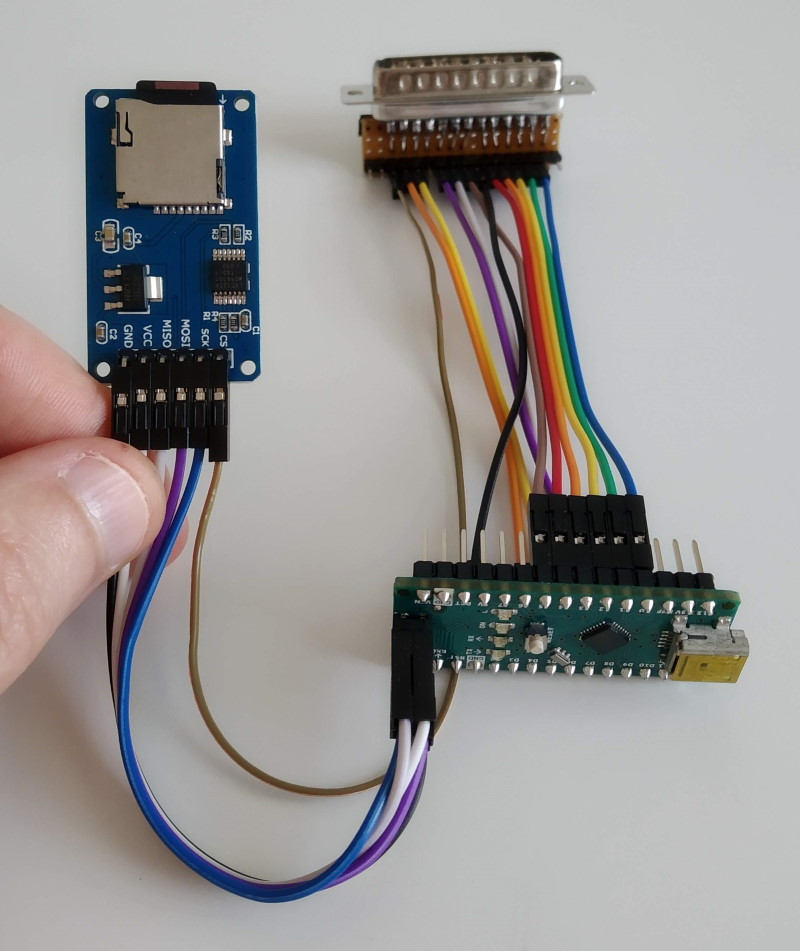
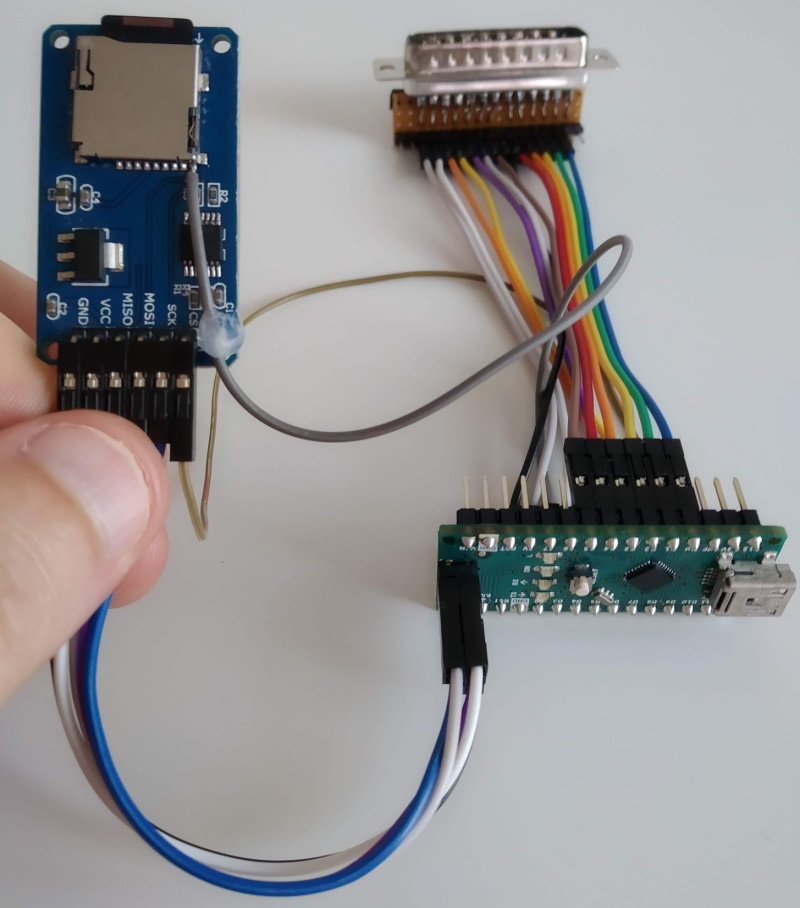
Update README and assembly instructions

diff --git a/hardware/assembly-instructions.md b/hardware/assembly-instructions.md
@@ -1,24 +1,40 @@
 # Assembly instructions
 
-The assembly of the adapter is very simple.
+The assembly of the adapter is quite simple.
 You need a parallel port connector and an Arduino Nano.
 Connect the parallel port to the Nano as follows:
 
-| Par. pin # | Par. pin name | Nano pin # | Nano pin name |
-|-----------:|--------------:|-----------:|--------------:|
-|  2 |   D0 | 26 | A0 |
-|  3 |   D1 | 25 | A1 |
-|  4 |   D2 | 24 | A2 |
-|  5 |   D3 | 23 | A3 |
-|  6 |   D4 | 22 | A4 |
-|  7 |   D5 | 21 | A5 |
-|  8 |   D6 |  9 | D6 |
-|  9 |   D7 | 10 | D7 |
-| 11 | BUSY |  7 | D4 |
-| 12 | POUT |  8 | D5 |
-| 20 |  GND |  4 | GND |
+| Par. pin # | Par. pin | Nano pin | Atmega328P |
+|---:|-----:|----:|----:|
+|  2 |   D0 |  A0 | PC0 |
+|  3 |   D1 |  A1 | PC1 |
+|  4 |   D2 |  A2 | PC2 |
+|  5 |   D3 |  A3 | PC3 |
+|  6 |   D4 |  A4 | PC4 |
+|  7 |   D5 |  A5 | PC5 |
+|  8 |   D6 |  D6 | PD6 |
+|  9 |   D7 |  D7 | PD7 |
+| 10 |  ACK |  D9 | PB1 |
+| 11 | BUSY |  D8 | PB0 |
+| 12 | POUT |  D4 | PD4 |
+| 13 |  SEL |  D2 | PD2 |
+| 18..25 |  GND | GND | GND |
 
-Note that pins D0-D5 are connected to port C on the AVR (pins A0-A5 on the Nano) and pins D6-D7 are connected to port D on the AVR (pins D6-D7 on the Nano).
-This is identical to how the [plipbox](https://github.com/cnvogelg/plipbox) connects the parallel port to the Arduino Nano, so it should be possible to use an existing plipbox PCB for this adapter (although this has not been tested).
+## Connecting SD card module to Nano
 
-If you are connecting an SD card module to the adapter then connect pin 13 on the parallel port connector (SEL) to the chip select (CS) pin on the SD card module, and connect the other SPI pins as you normally would connect an SPI module to the Arduino Nano.
+To use the adapter with the example SD card driver (spisd.device),
+connect the SD card module to the Nano as follows:
+
+| SD card | Nano pin | Atmega328P |
+|-----:|----:|----:|
+|   SS | D10 | PB2 |
+| MOSI | D11 | PB3 |
+| MISO | D12 | PB4 |
+|  SCK | D13 | PB5 |
+|   CD |  D3 | PD3 |
+|  VCC | VCC |     |
+|  GND | GND | GND |
+
+CD = Card Detect. Not all modules has this pin available, but since the Micro SD card connectors typically has this pin it should be possible to solder a wire to the connector.
+
+Note that the SD card module must have voltage level translation between the +5V used by the Amiga and the Nano, and the +3.3V used by the SD card.

diff --git a/README.md b/README.md
@@ -2,6 +2,22 @@
 
 The goal of this project is to make a cheap and easy to build SPI adapter that connects to the parallel port of an Amiga. Furthermore, the performance of the adapter should be as fast as possible.
 
+## Please note: new hardware incompatible version!
+
+What you are looking at is a new version of this design. It is hardware
+incompatible with the original version. Updating the software without making
+the corresponding hardware changes will not work.
+
+Old versions of this design are available as tags/releases.
+
+### Changes with latest version
+
+Support has been added that allows the SPI device to interrupt the Amiga via the adapter.
+The SD card example driver has been modified to use this interrupt so that the SD card
+can be inserted/ejected as part of normal operations.
+
+A video demonstrating this can be seen here: https://www.youtube.com/watch?v=zJDtiFQgrn0.
+
 ## What parts make up the project?
 
 - An AVR microcontroller, provided by an Arduino Nano board
